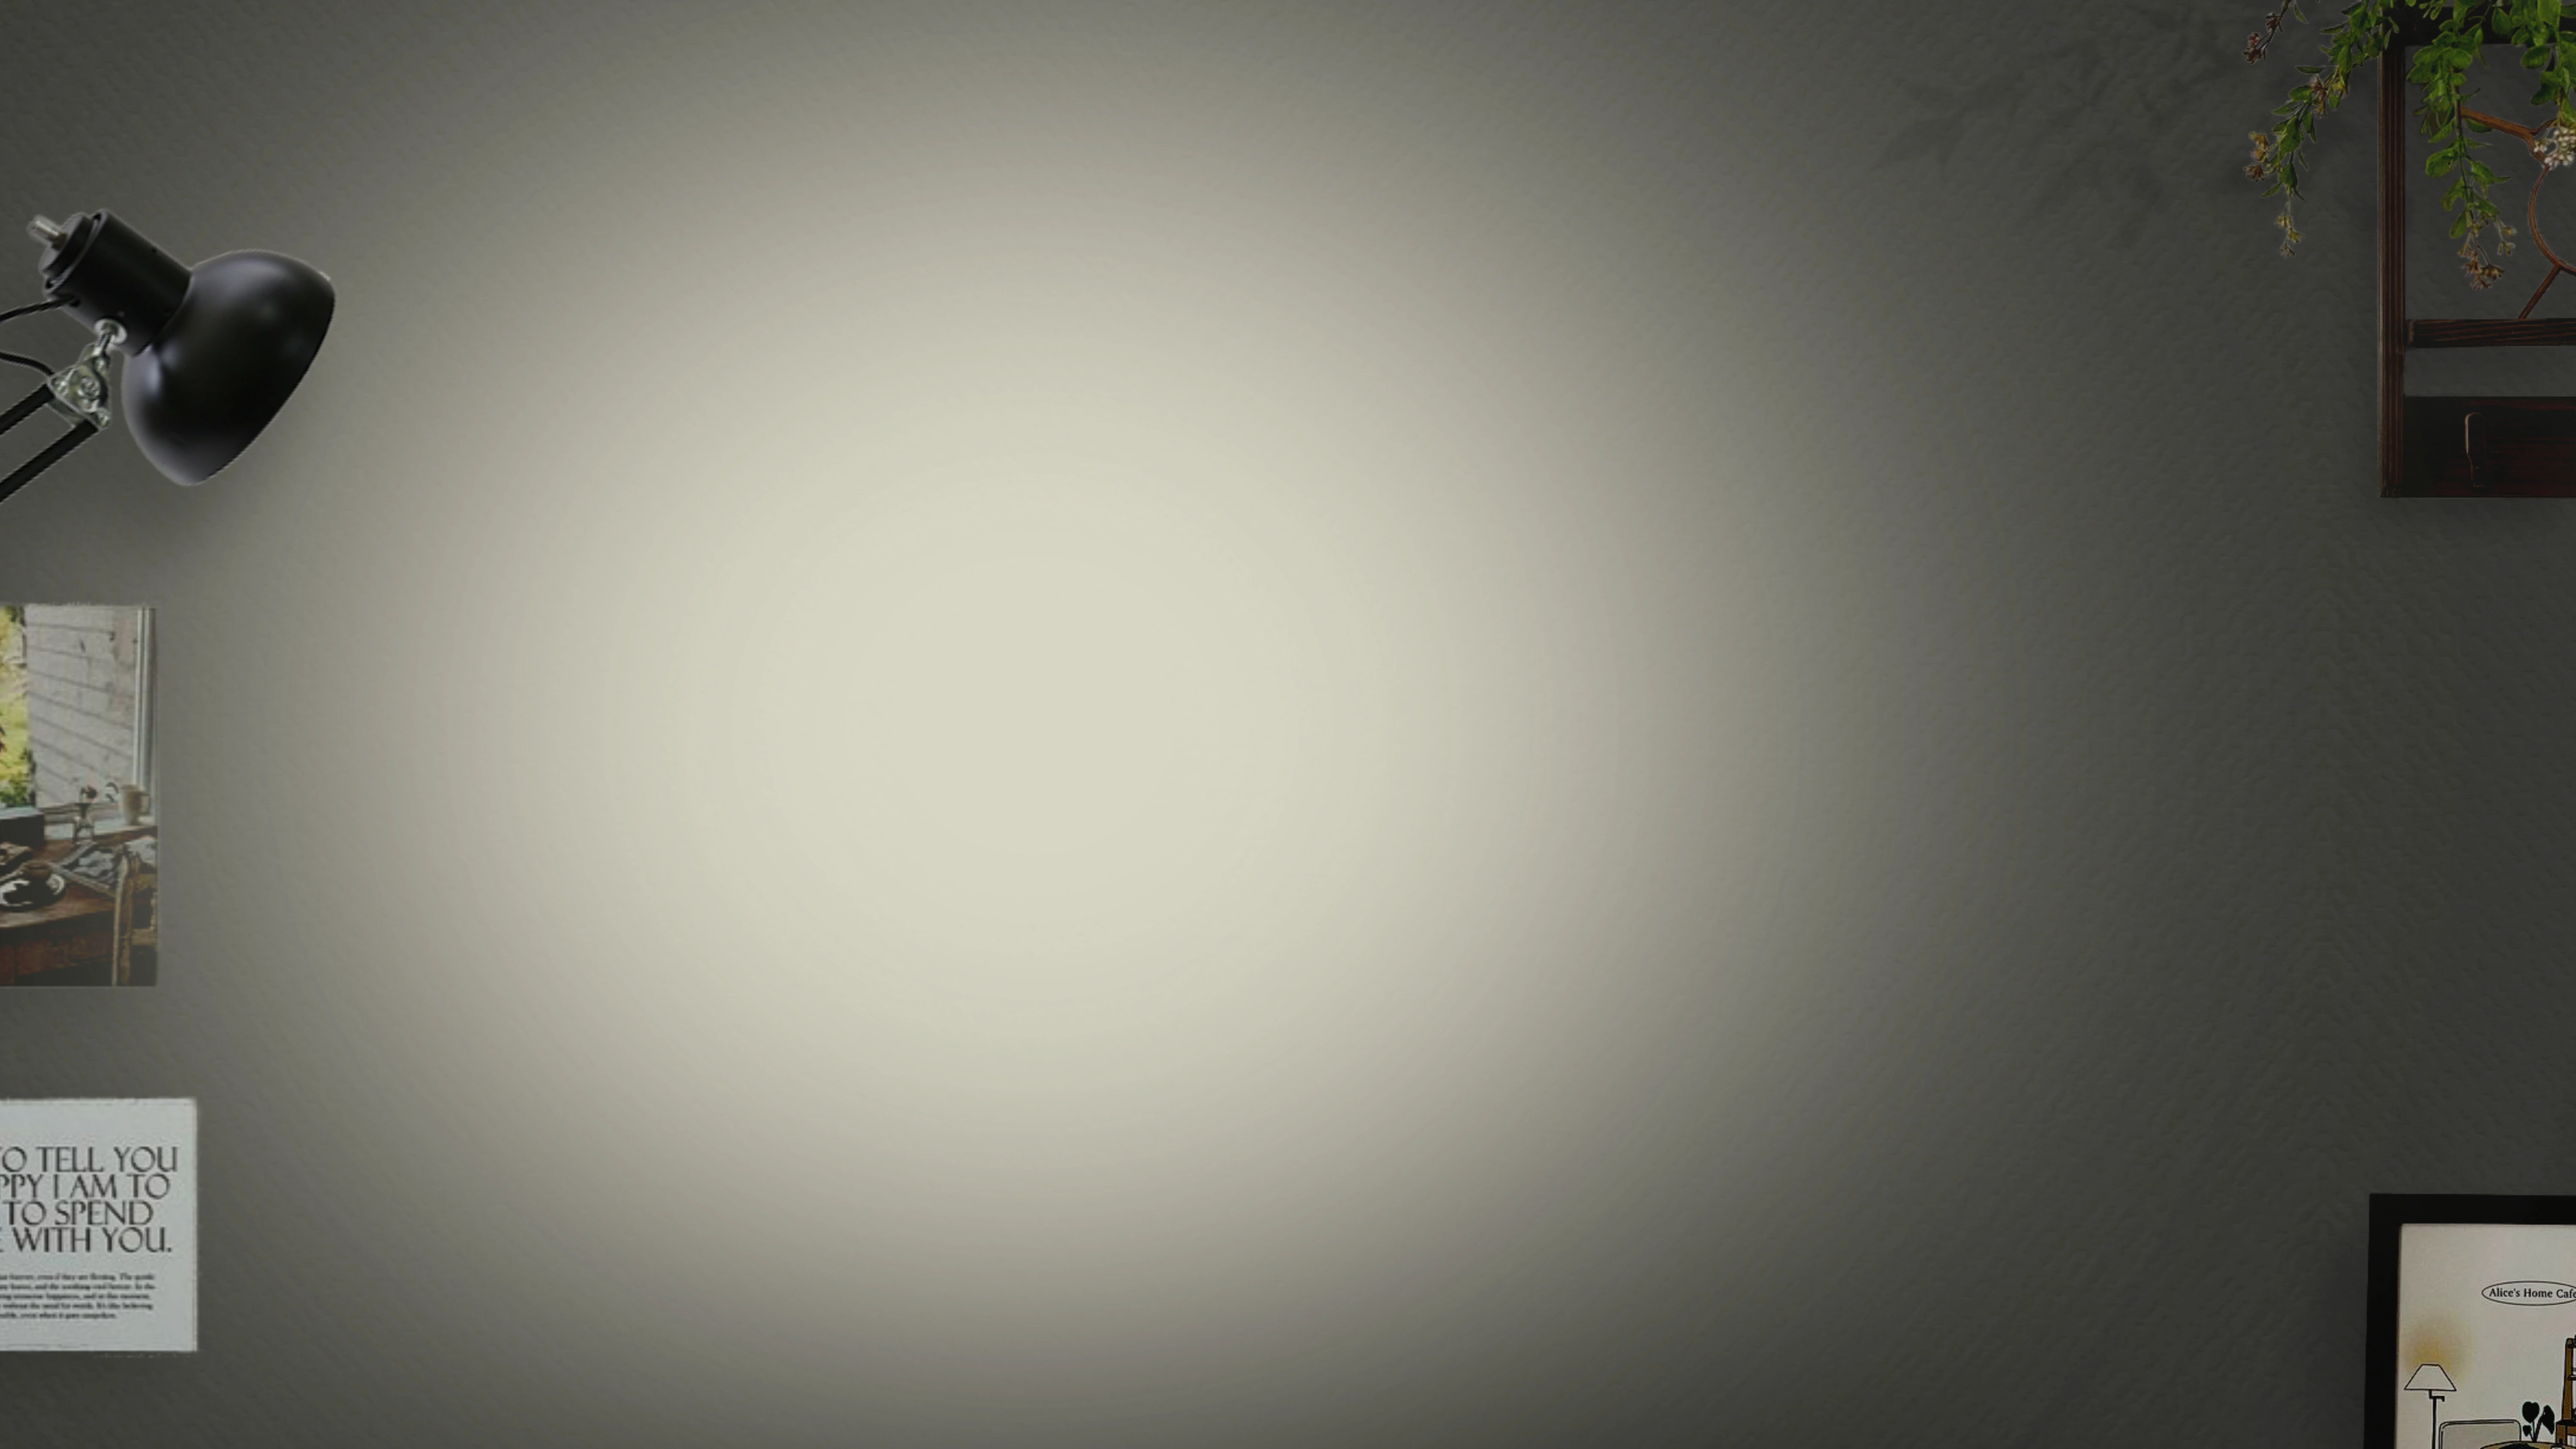
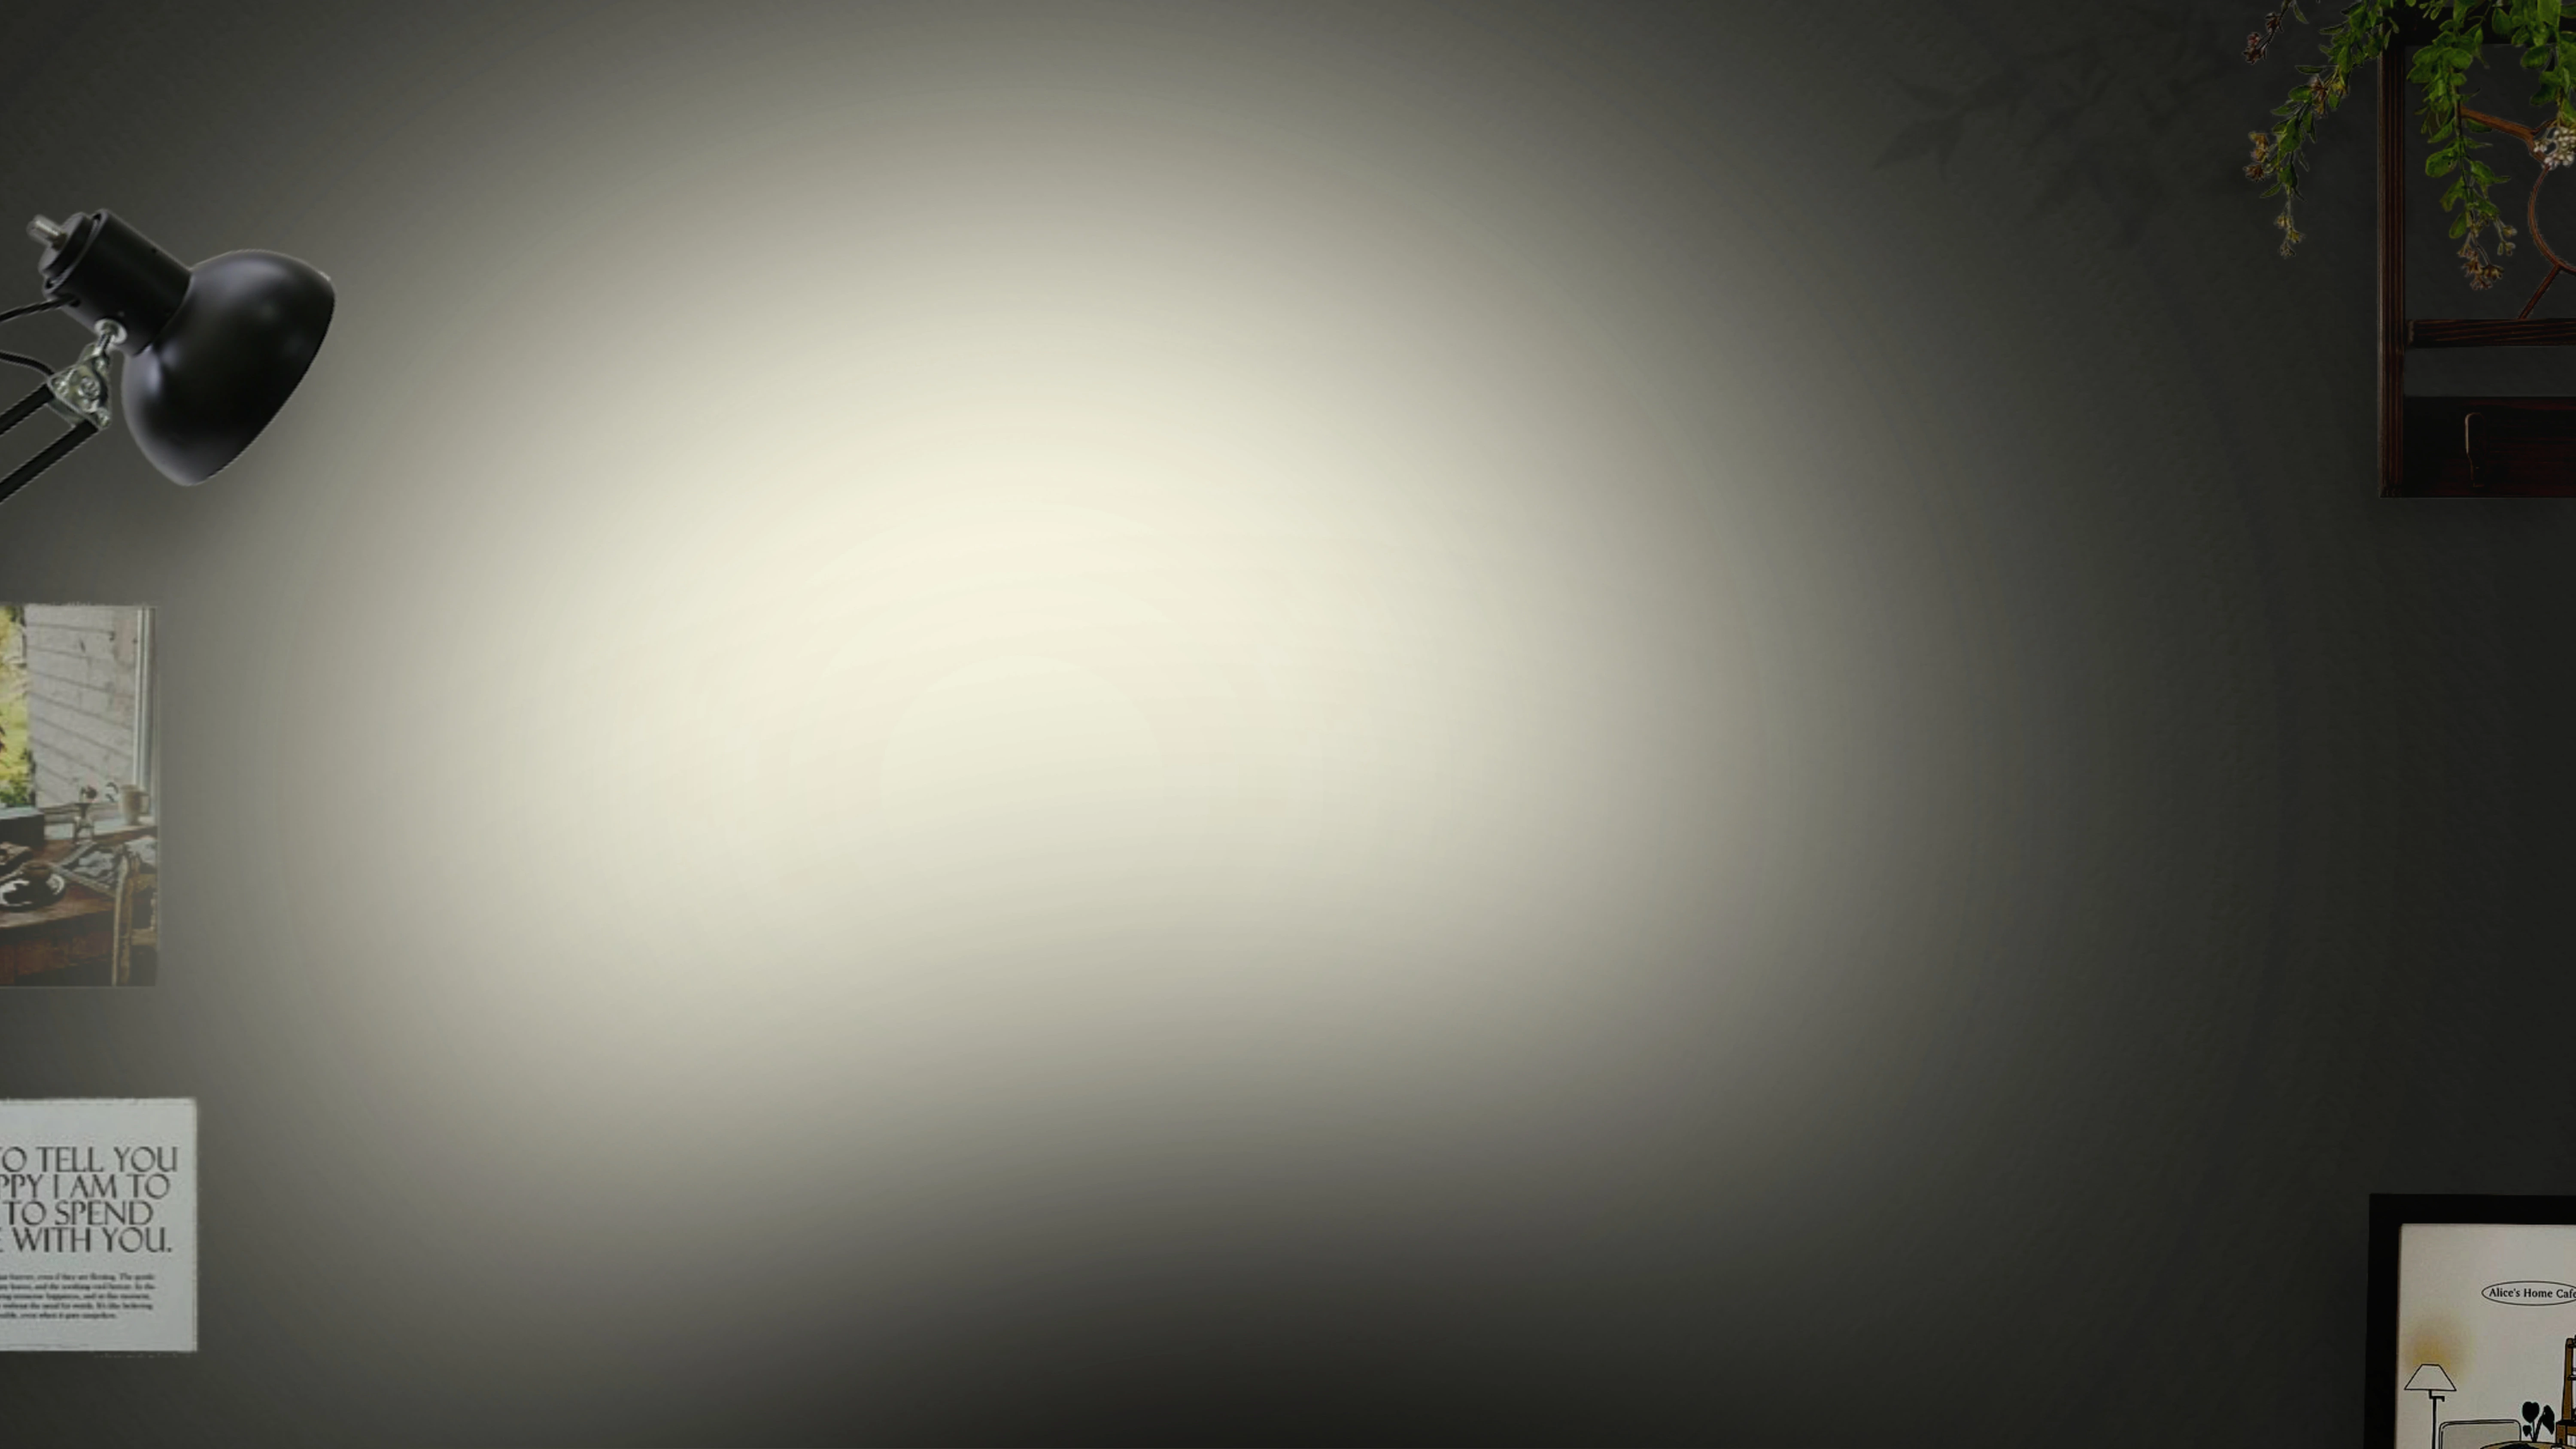
:lion: chore: mac 배경화면 수정 및 mac-right-bg 안 보이게 설정

diff --git a/src/pages/mac.html b/src/pages/mac.html
@@ -34,7 +34,7 @@
     <div class="mac-entire-bg bg-[url('/public/asserts/mac/background-web/bg-white.webp')] dark:bg-[url('/public/asserts/mac/background-web/bg-black.webp')] bg-cover col-start-1 col-end-4 row-start-1 row-end-2"></div>
     <div class="mac-left-bg bg-red-300/0 col-start-1 col-end-2 row-start-1 row-end-2"></div>
     <div class="mac mt-10 col-start-2 col-end-3 row-start-1 row-end-2">
-      <div class="shadow-[0_0_100px_0_rgba(0,_0,_0,_0.50)] mac-border p-10 bg-linear-[45deg,_#000000_50%,_#3a3a3a_50%] dark:bg-linear-[-45deg,_#000000_50%,_#3a3a3a_50%] rounded-t-[35px] flex justify-center items-center">
+      <div class="shadow-[0_0_100px_0_rgba(0,0,0,0.50)] mac-border p-10 bg-linear-[45deg,_#000000_50%,_#3a3a3a_50%] dark:bg-linear-[-45deg,_#000000_50%,_#3a3a3a_50%] rounded-t-[35px] flex justify-center items-center">
         <div class="relative mac-screen flex flex-col items-center justify-between overflow-hidden w-[1200px] h-[675px] bg-[url(/public/asserts/mac/mac-screen-base-background-img.png)] dark:bg-[url(/public/asserts/mac/mac-screen-base-dark-background-img.png)] bg-cover rounded-[15px]">
           <!-- top-bar -->
           <div class="w-full flex justify-between items-center py-0.5 bg-[rgba(223,223,223,0.20)] dark:bg-[rgba(109,109,109,0.5)] shadow-2xl">
@@ -136,15 +136,13 @@
           </div>
         </div>
       </div>
-      <div class="mac-bottom h-25 object-contain bg-linear-[45deg,_#959595_0%,_#ffffff_100%] dark:bg-linear-[-45deg,_#454545_0%,_#989898_100%] rounded-b-[35px] flex justify-center items-center shadow-[0_0_15px_0_rgba(0,_0,_0,_0.50)]">
+      <div class="mac-bottom h-25 object-contain bg-linear-[45deg,_#959595_0%,_#ffffff_100%] dark:bg-linear-[-45deg,_#454545_0%,_#989898_100%] rounded-b-[35px] flex justify-center items-center shadow-[0_0_100px_0_rgba(0,0,0,0.50)]">
         <img class="h-10 cursor-pointer" src="/public/asserts/mac/apple-logo.webp" alt="" />
       </div>
-      <div><img class="dark:hidden" src="/public/asserts/mac/support_white.webp" alt="모니터 지지대 이미지 (라이트모드)" /></div>
-      <div><img class="hidden dark:block" src="/public/asserts/mac/support_black.webp" alt="모니터 지지대 이미지 (다크모드)" /></div>
-      <div><img class="dark:hidden" src="/public/asserts/mac/pedestal_white.webp" alt="모니터 받침대 이미지 (라이트모드)" /></div>
-      <div><img class="hidden dark:block" src="/public/asserts/mac/pedestal_black.webp" alt="모니터 받침대 이미지 (다크보드)" /></div>
+      <div><img class="dark:hidden" src="/public/asserts/mac/support-pedestal-white.webp" alt="모니터 지지대 이미지 (라이트모드)" /></div>
+      <div><img class="hidden dark:block" src="/public/asserts/mac/support-pedestal-black.webp" alt="모니터 지지대 이미지 (다크모드)" /></div>
     </div>
-    <div class="mac-right-bg bg-blue-300 col-start-3 col-end-4 row-start-1 row-end-2 relative p-4">
+    <div class="mac-right-bg bg-blue-300/0 col-start-3 col-end-4 row-start-1 row-end-2 relative p-4">
       <div id="clickablePostIt" class="post-it absolute top-6 right-6 w-[150px] h-[150px] bg-[#ffffe0] p-2 shadow-[5px_5px_7px_rgba(0,0,0,0.3)] text-center break-words transition-transform duration-300 ease-in-out cursor-pointer select-none text-sm leading-[1.4]">
         <p class="m-0">기능</p>
       </div>
